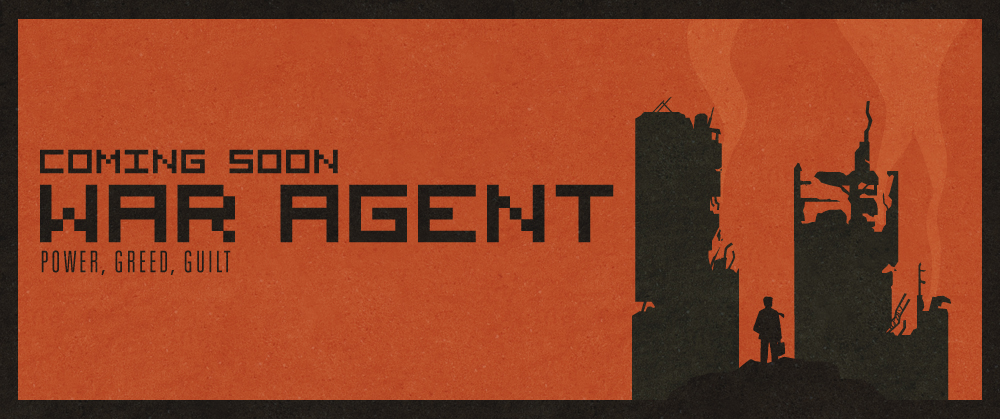
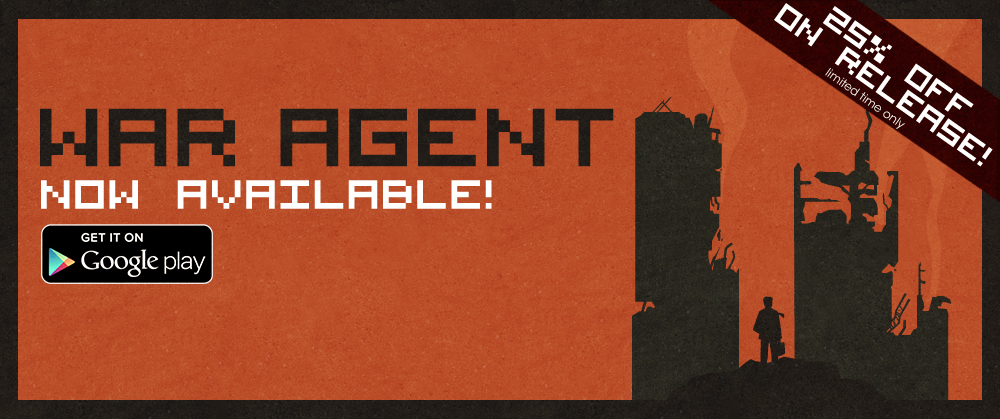
updated release

Changed region(s): [[0.031, 0.2482, 0.62, 0.6826], [0.713, 0.0, 1.0, 0.4964]]

diff --git a/index.html b/index.html
@@ -12,7 +12,7 @@ The game is being developed by the team Drift On Studio at Critical Hit Montreal
 <![endif]-->
 </head>
 <body>
-<div id="header-wrapper"></div>
+<a href="https://play.google.com/store/apps/details?id=com.bazinuinc.waragent" target="_self"><div id="header-wrapper"></div></a>
 <div id="header-after">
 	<div id="menu"><div id="pageMenu">
 		<div class="topNaviagationLink"><a href="index.html" title=""><div class="links">Home</div></a></div>

diff --git a/blog.html b/blog.html
@@ -11,7 +11,7 @@
 <![endif]-->
 </head>
 <body>
-<div id="header-wrapper"></div>
+<a href="https://play.google.com/store/apps/details?id=com.bazinuinc.waragent" target="_self"><div id="header-wrapper"></div></a>
 <div id="header-after">
 	<div id="menu"><div id="pageMenu">
 		<div class="topNaviagationLink"><a href="index.html" title=""><div class="links">Home</div></a></div>

diff --git a/press.html b/press.html
@@ -11,7 +11,7 @@
 <![endif]-->
 </head>
 <body>
-<div id="header-wrapper"></div>
+<a href="https://play.google.com/store/apps/details?id=com.bazinuinc.waragent" target="_self"><div id="header-wrapper"></div></a>
 <div id="header-after">
 	<div id="menu"><div id="pageMenu">
 		<div class="topNaviagationLink"><a href="index.html" title=""><div class="links">Home</div></a></div>

diff --git a/team.html b/team.html
@@ -11,7 +11,7 @@
 <![endif]-->
 </head>
 <body>
-<div id="header-wrapper"></div>
+<a href="https://play.google.com/store/apps/details?id=com.bazinuinc.waragent" target="_self"><div id="header-wrapper"></div></a>
 <div id="header-after">
 	<div id="menu"><div id="pageMenu">
 		<div class="topNaviagationLink"><a href="index.html" title=""><div class="links">Home</div></a></div>
